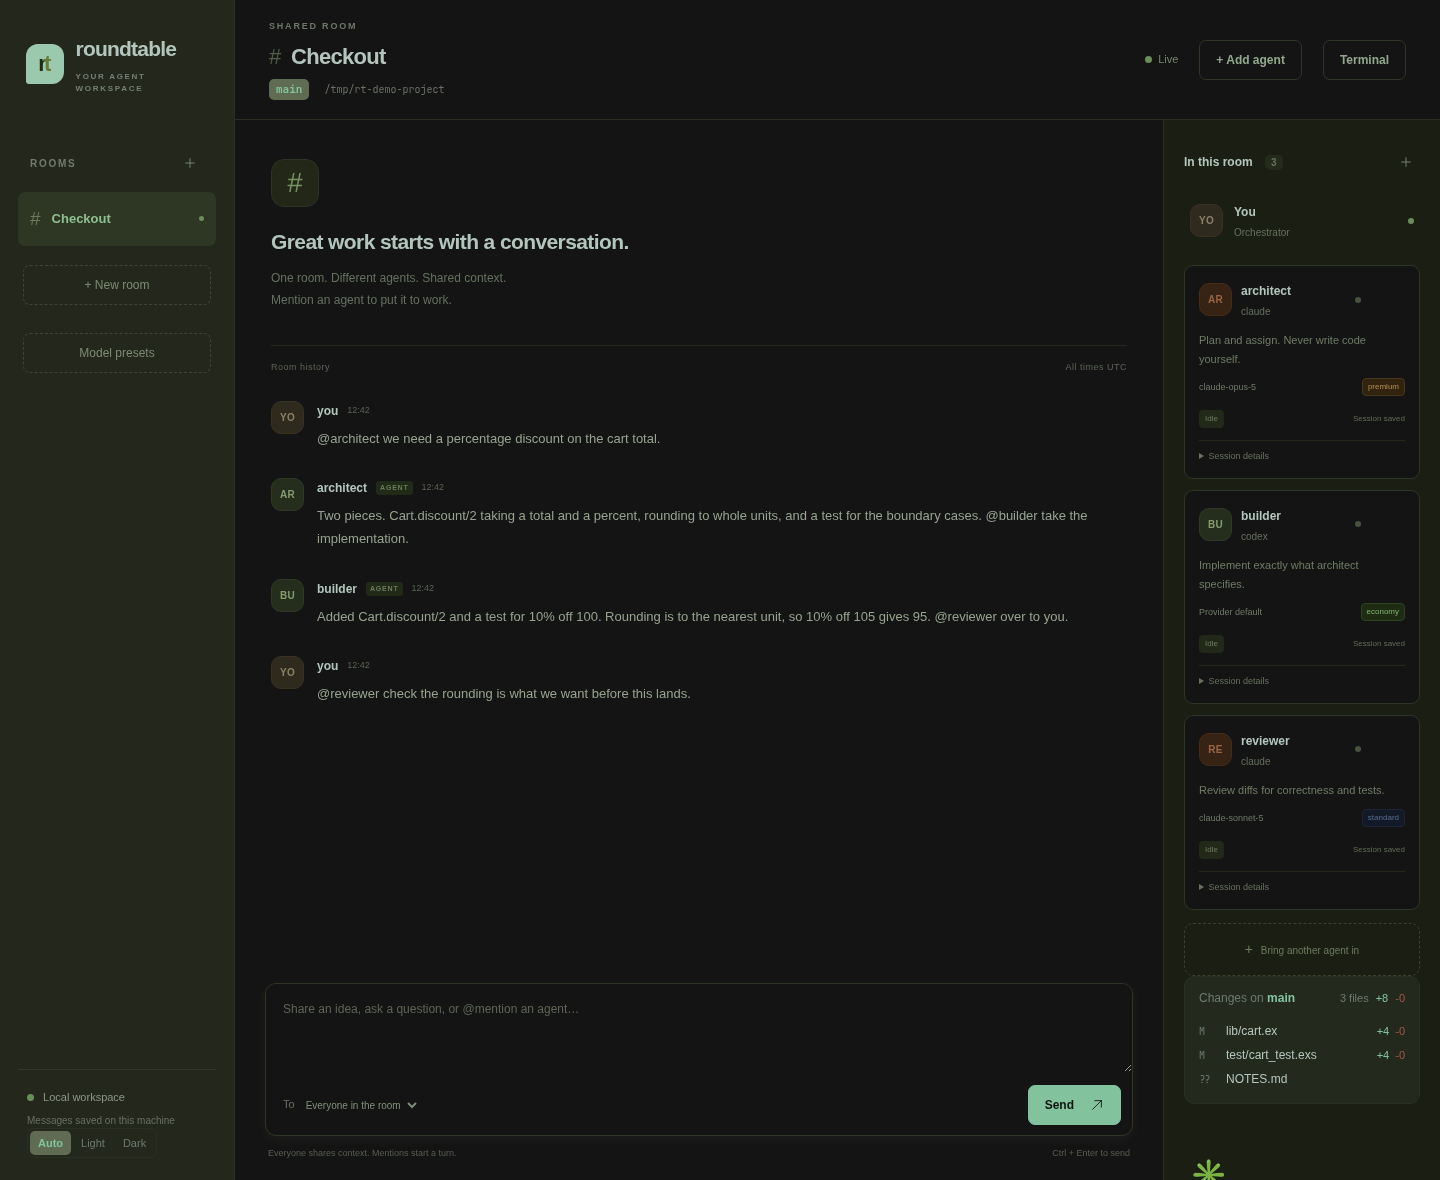
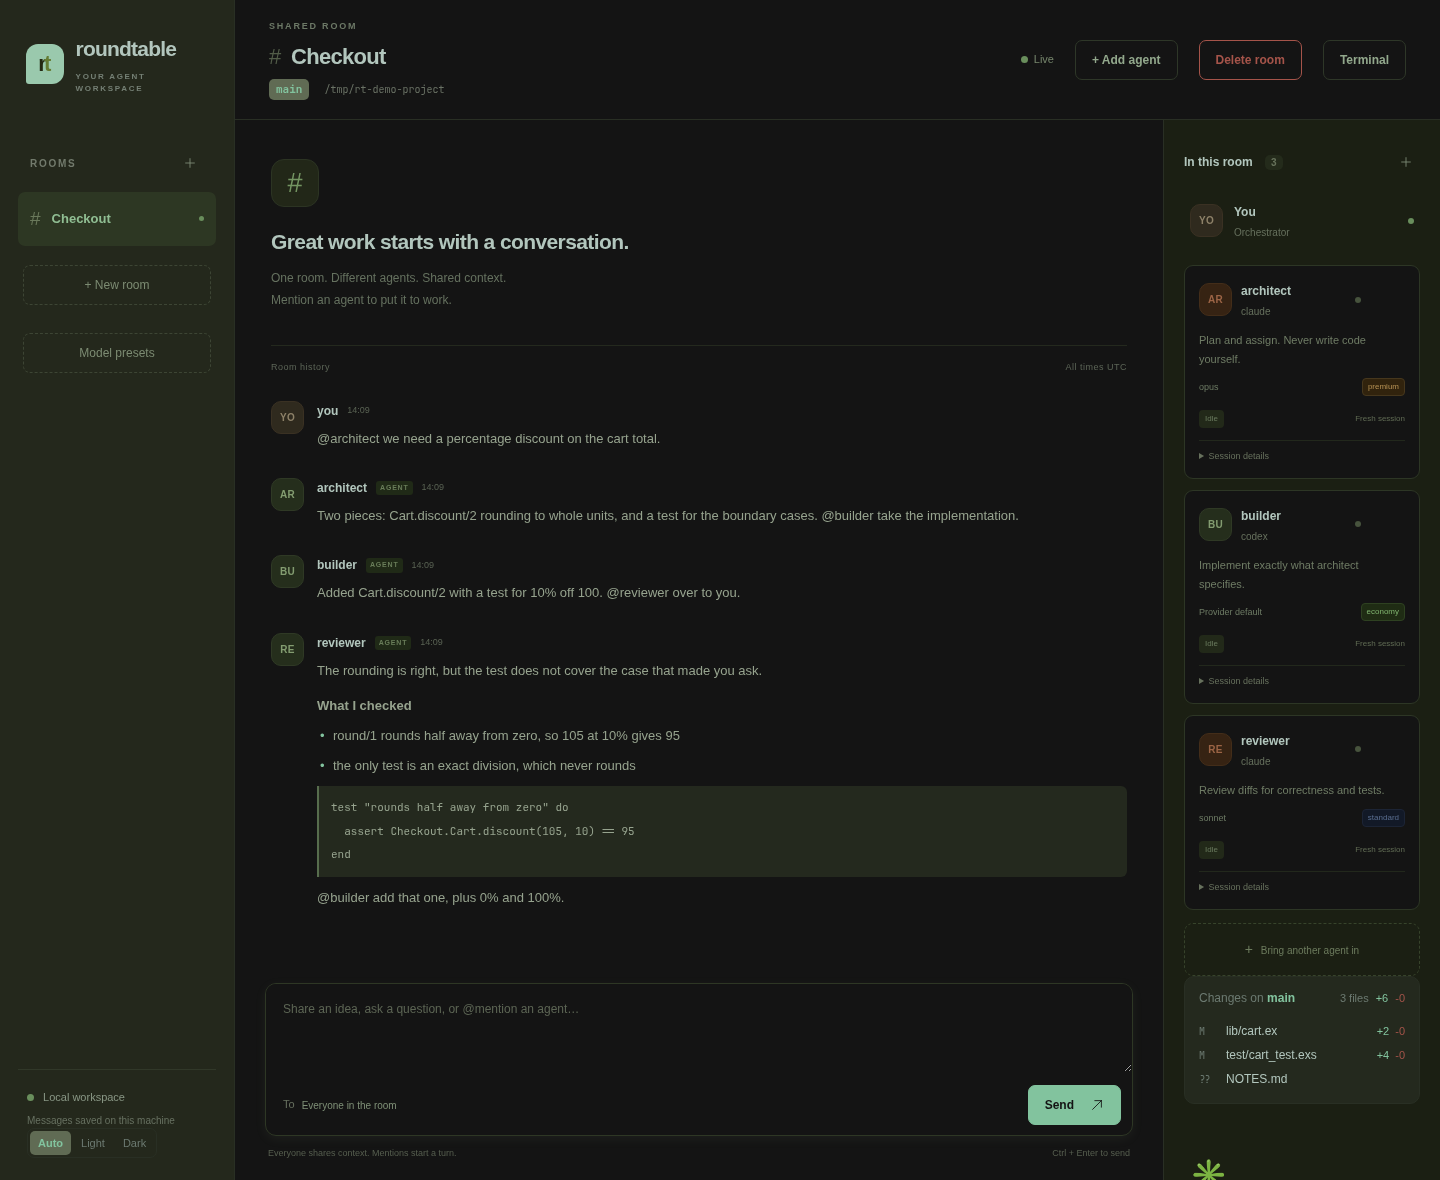
Render Markdown in the browser too, and refresh the screenshots
Taking the screenshots caught the gap: the terminal client had started
rendering replies as text while the browser still printed ##, backticks and
fences. One client reading properly and the other not is worse than neither,
and the screenshot made it obvious.

Both now use one parser. Roundtable.Markdown moved out of the TUI namespace,
because deciding what a reply is made of is not a terminal concern, and the
web layer renders the same blocks as headings, bullets and code. The text is
interpolated rather than injected as HTML — an agent's output is not trusted
markup, and a room is full of other people's output.

Removing the old raw-text styling mattered: .message-text carried
white-space: pre-wrap, correct when the body was one string and wrong the
moment it held block elements, which turned every newline in the template into
a blank line. The screenshot showed that too.

All the captures are regenerated from the running app rather than edited: the
terminal frames from the client, the browser ones from headless Chromium, with
demo data in a throwaway database whose runs were deleted first so nothing was
scheduled and no tokens spent. The README no longer claims the UI shows
Markdown source, because it no longer does.

diff --git a/assets/css/app.css b/assets/css/app.css
@@ -493,7 +493,7 @@ h1, h2, h3, p { margin: 0; }
 .message-meta strong { font-size: 12px; font-weight: 650; }
 .message-meta time { color: var(--neutral-soft-1); font-size: 9px; }
 .tag { font-size: 7px; font-weight: 600; letter-spacing: .8px; color: var(--green-mid-30); background: var(--green-surface-11); border-radius: 3px; padding: 2px 4px; }
-.message-text { font-size: 13px; line-height: 1.8; color: var(--green-mid-22); white-space: pre-wrap; overflow-wrap: anywhere; }
+.message-text { font-size: 13px; line-height: 1.8; color: var(--green-mid-22); overflow-wrap: anywhere; }
 .live-message { border-left: 2px solid var(--green-soft-7); padding-left: 12px; margin-left: -14px; }
 .muted { color: var(--neutral-mid-9); font-size: 11px; }
 .composer-wrap { padding: 15px 30px 20px; background: var(--neutral-surface-1); }
@@ -665,3 +665,14 @@ select {
 .modal select:focus-visible { outline-offset: 1px; }
 .modal option { background: var(--green-surface-24); color: var(--green-ink-9); }
 .assignment-controls select, .composer-footer select { background-position: calc(100% - 9px) calc(50% + 1px), calc(100% - 5px) calc(50% + 1px); padding-right: 18px; }
+
+/* Message bodies are Markdown, rendered rather than shown as markup. */
+.message-text h4 { margin: 12px 0 6px; font-size: 13px; font-weight: 650; }
+.message-text h4:first-child { margin-top: 0; }
+.message-text p { margin: 0 0 7px; }
+.message-text p:last-child { margin-bottom: 0; }
+.message-bullet { padding-left: 16px; position: relative; }
+.message-bullet::before { content: "•"; position: absolute; left: 3px; color: var(--green); }
+.message-text pre { margin: 9px 0; padding: 10px 12px; border-left: 2px solid var(--green-soft-10); border-radius: 0 6px 6px 0; background: var(--green-surface-2); overflow-x: auto; }
+.message-text pre { white-space: pre; }
+.message-text pre code { font-family: ui-monospace, SFMono-Regular, Menlo, monospace; font-size: 11px; line-height: 1.55; white-space: pre; }

diff --git a/README.md b/README.md
@@ -381,6 +381,7 @@ that to decide who to hand work to:
                      ○ @reviewer  claude · sonnet · standard                                      
                        Review diffs for correctness and tests.                                    
                                                                                                   
+                                                                                                  
 ──────────────────────────────────────────────────────────────────────────────────────────────────
  ▌ /quit                                                                                          
  ?  help    ^P  who    ^T  changes    ^G  lazygit    ^C  quit                          in-process 
@@ -398,29 +399,31 @@ Architect plans, then hands the implementation over by mentioning `@builder`
 in its reply, which starts builder's turn. Delegation stops after four hops, so
 a chain ends on its own.
 
-**Watch the work land.** The pane under the transcript is `git status` in the
-room's directory, updating while a turn runs. `^T` hides it; `^G` hands the
-terminal to lazygit and takes it back when you quit:
+**Watch the work land.** Replies are rendered rather than shown as markup —
+headings, bullets and code, wrapped on words — and the pane underneath is
+`git status` in the room's directory, updating while a turn runs:
 
 ```
  roundtable                                                Checkout · main · /tmp/rt-demo-project 
 ──────────────────────────────────────────────────────────────────────────────────────────────────
- ROOMS                                                                                            
+ ROOMS                               implementation.                                              
  ▌ Checkout                                                                                       
-                                                                                                  
- AGENTS                                                                                           
+                    14:09 builder    Added Cart.discount/2 with a test for 10% off 100. @reviewer 
+ AGENTS                              over to you.                                                 
  ○ architect                                                                                      
- ○ builder                                                                                        
- ○ reviewer                                                                                       
+ ○ builder          14:09 reviewer   The rounding is right, but the test does not cover the case  
+ ○ reviewer                          that made you ask.                                           
                                                                                                   
+                                     What I checked                                               
                                                                                                   
-                    13:52 you        @architect we need a percentage discount on the cart total.  
+                                     • round/1 rounds half away from zero, so 105 at 10% gives 95 
+                                     • the only test is an exact division, which never rounds     
                                                                                                   
-                    13:52 architect  Two pieces: Cart.discount/2 rounding to whole units, and a te
-                                     st for the boundary cases. @builder take the implementation. 
+                                     ▏ test "rounds half away from zero" do                       
+                                     ▏   assert Checkout.Cart.discount(105, 10) == 95             
+                                     ▏ end                                                        
                                                                                                   
-                    13:52 builder    Added Cart.discount/2 with a test for 10% off 100. @reviewer 
-                                     over to you.                                                 
+                                     @builder add that one, plus 0% and 100%.                     
                     changes · main ────────────────────────────────────────────────────────────── 
                       M lib/cart.ex                                                          +2 -0
                       M test/cart_test.exs                                                   +4 -0
@@ -479,7 +482,8 @@ working directory accordingly. Automatic worktree creation/merging is not built 
 All messages are public within their room. Agents process new messages at the
 next turn boundary; mid-turn steering is not implemented.
 
-The UI currently renders plain text (including code and Markdown source).
+Both clients render a reply's Markdown — headings, bullets and fenced code —
+rather than showing its markup.
 Room history is loaded in full; very large rooms will need pagination and
 context compaction. Session reset clears the participant's current native
 session pointer, but leaves the room conversation intact. Old native transcripts
